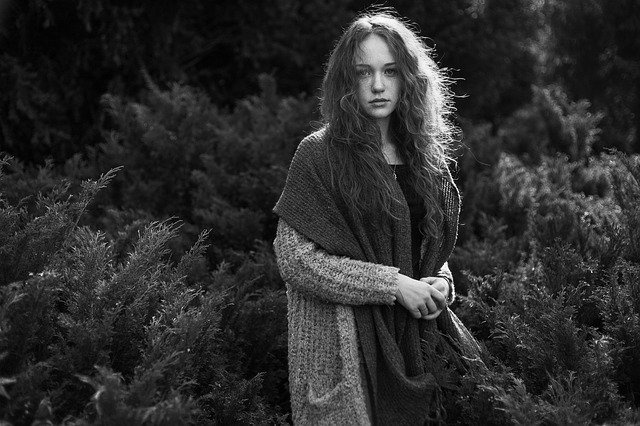
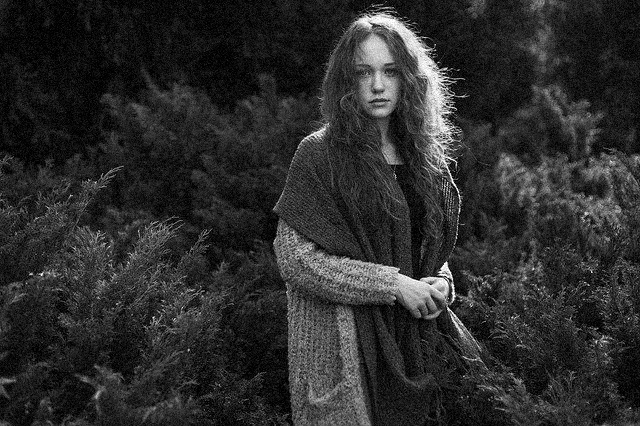
7.6 양방향 필터 bilateralFilter

diff --git a/OpenCV_project.cpp b/OpenCV_project.cpp
@@ -3,7 +3,7 @@
 int main()
 {
 	Projects_7 project;
-	project.m7_5();
+	project.m7_6();
 
 	return 0;
 }
